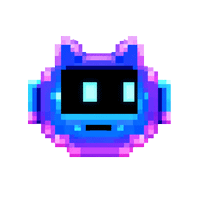
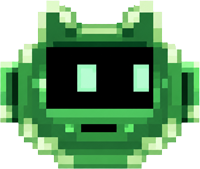
feat: add custom Titlebar component with navigation menu and branding assets

diff --git a/src/components/Titlebar.tsx b/src/components/Titlebar.tsx
@@ -124,7 +124,7 @@ export function Titlebar({
           onClick={() => onTabSwitch('draw')}
           style={{ display: 'flex', alignItems: 'center', gap: '14px', cursor: 'pointer' }}
         >
-          <img src="/images/contributist-web.png" alt="Contributist logo" className="logo-img" />
+          <img src="/images/contributist-web.png" alt="Contributist logo" className="logo-img" style={{ width: "28px", height: "28px", objectFit: "contain" }} />
           <div style={{ display: 'flex', flexDirection: 'column' }}>
             <h1 style={{ margin: 0, fontSize: "18px", display: "flex", alignItems: "center", gap: "4px" }}>
               Contributist <span>⚡</span>